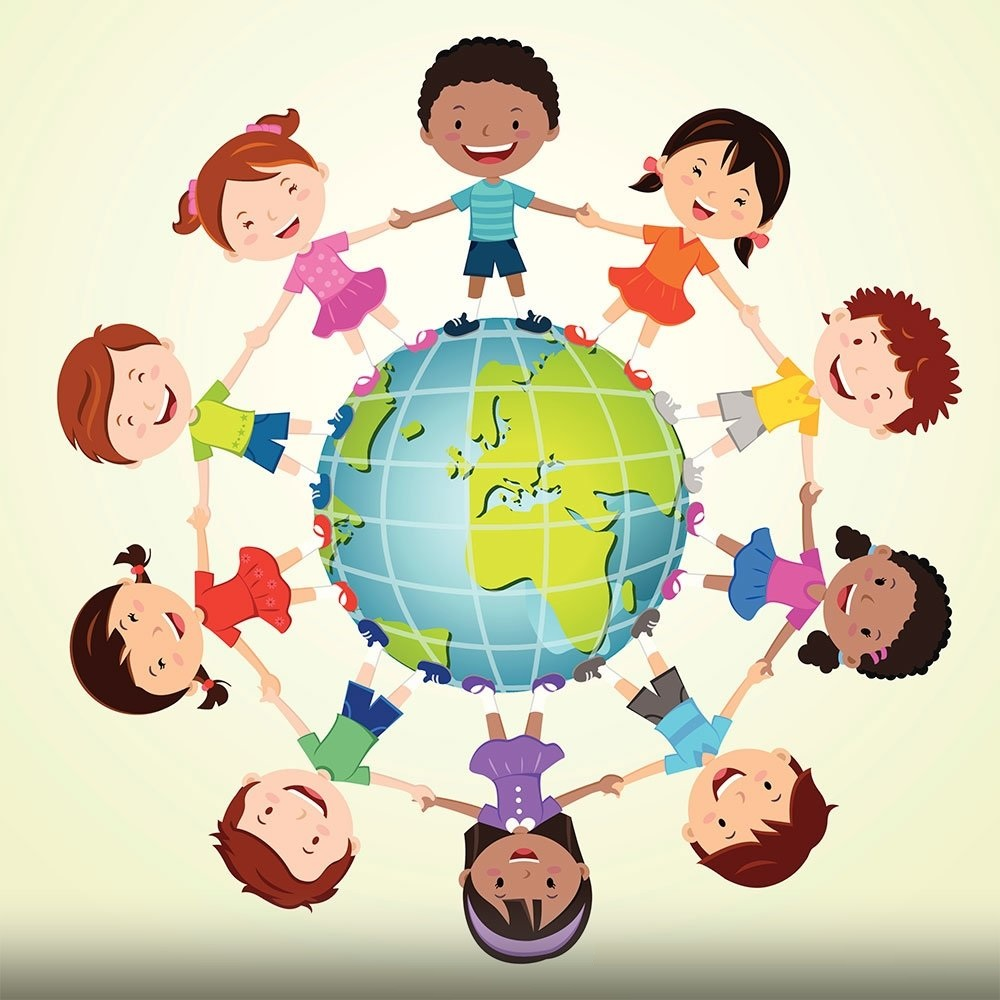
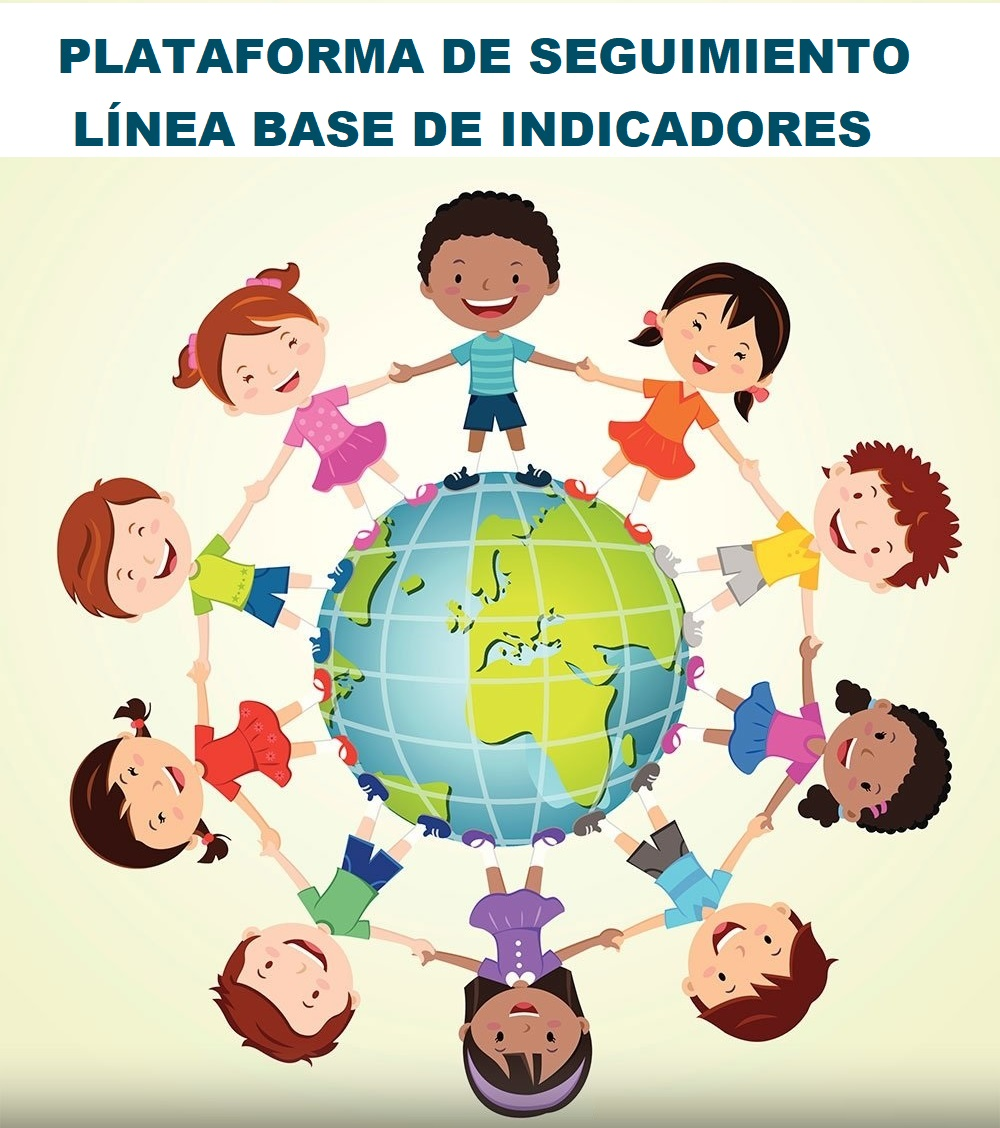
ser

diff --git a/index.md b/index.md
@@ -1,5 +1,5 @@
 ---
-title: "Plataforma de seguimiento ''Línea Base de Indicadores - Unicef'' "
+title: 
 keywords: 
 sidebar: indicador_sidebar
 toc: false
@@ -9,7 +9,7 @@ Summary:
 
 
 
-<img class="img-rounded img-responsibe" src="/images/cara.jpg" alt="" width="565" height="211">
+<img class="img-rounded img-responsibe" src="/images/cara2.jpg" alt="" width="500" height="500">
 
 
 {% include links.html %}
